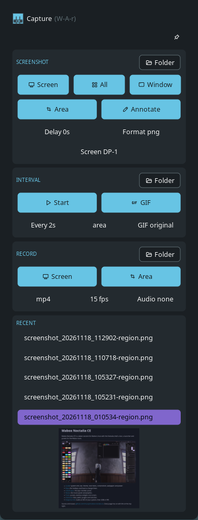
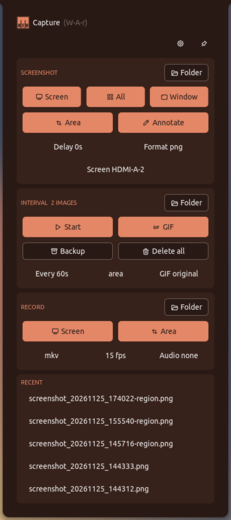
docs: capture page shows the panel and its settings

diff --git a/docs/capture.md b/docs/capture.md
@@ -2,7 +2,7 @@
 
 `W-A-r` opens the Capture panel: screenshots, recording, interval shots and the recent files.
 
-<p align="center"><a href="img/capture.png"><img src="img/thumb/capture.png" alt="Capture panel"></a></p>
+<p align="center"><a href="img/capture.png"><img style="vertical-align:top" src="img/thumb/capture.png" alt="Capture panel"></a> <a href="img/capture-settings.png"><img style="vertical-align:top" src="img/thumb/capture-settings.png" alt="Capture settings"></a></p>
 
 | Key | Does |
 |---|---|
